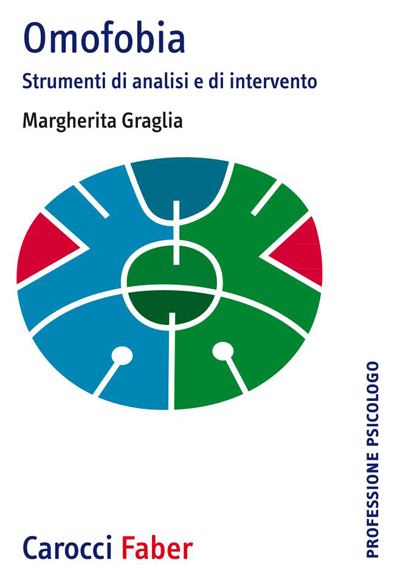
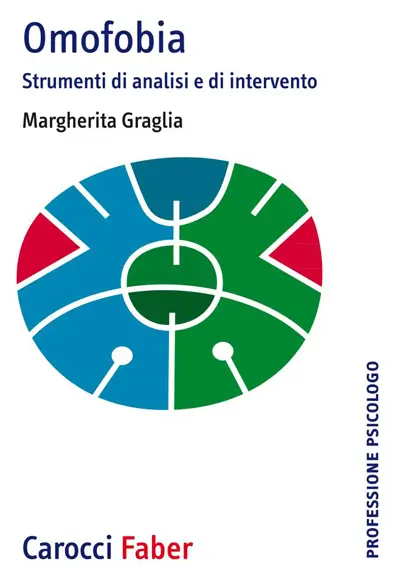
reduce image size

diff --git a/src/components/featured-books.js b/src/components/featured-books.js
@@ -5,7 +5,7 @@ const HeroBanner = () => {
     {
       text: "Libro 1",
       url: "/libri/book-one",
-      image: "/th_differenze.webp",
+      image: "/th_differenze_sm.webp",
       description: "Libro 1",
       amazonLink:
         "https://www.amazon.it/differenze-sesso-genere-orientamento/dp/8874668082/ref=sr_1_1?__mk_it_IT=ÅMÅŽÕÑ&crid=2TOEP8XY3KJV7&keywords=graglia+margherita&qid=1673814942&sprefix=graglia+margherita%2Caps%2C93&sr=8-1",
@@ -13,7 +13,7 @@ const HeroBanner = () => {
     {
       text: "Libro 2",
       url: "/libri/book-two",
-      image: "/th_omofobia.webp",
+      image: "/th_omofobia_sm.webp",
       description: "Libro 2",
       amazonLink:
         "https://www.amazon.it/Omofobia-Strumenti-analisi-intervento-Margherita/dp/8874666454/ref=sr_1_2?__mk_it_IT=ÅMÅŽÕÑ&crid=2TOEP8XY3KJV7&keywords=graglia+margherita&qid=1673814942&sprefix=graglia+margherita%2Caps%2C93&sr=8-2",
@@ -21,7 +21,7 @@ const HeroBanner = () => {
     {
       text: "Libro 3",
       url: "/libri/book-three",
-      image: "/th_psicoterapia.webp",
+      image: "/th_psicoterapia_sm.webp",
       description: "Libro 3",
       amazonLink:
         "https://www.amazon.it/Psicoterapia-omosessualità-Margherita-Graglia/dp/8874665695/ref=sr_1_3?__mk_it_IT=ÅMÅŽÕÑ&crid=2TOEP8XY3KJV7&keywords=graglia+margherita&qid=1673814942&sprefix=graglia+margherita%2Caps%2C93&sr=8-3",
@@ -48,13 +48,14 @@ const HeroBanner = () => {
         {bookPageLinks.map(book => (
           <div style={{ display: "flex", flexDirection: "column" }}>
             <a href={book.url} target="_blank" rel="noreferrer">
-              <img
+              <img alt=''
+               width={'100%'} height={'300px'} 
                 src={book.image}
                 style={{ height: "300px", border: "1px solid black" }}
               />
             </a>
             <a href={book.amazonLink} target="_blank" rel="noreferrer">
-              <img src="/amazon-button.png" style={{ height: "50px" }} />
+              <img alt='' width={'100%'} height={'50px'} src="/amazon-button.webp" style={{ height: "50px" }} />
             </a>
           </div>
         ))}

diff --git a/src/pages/libri/book-two.js b/src/pages/libri/book-two.js
@@ -14,7 +14,7 @@ const BookTwo = () => (
           backgroundColor: "#eff1e9",
         }}
       >
-        <img
+        <img alt=''
           src="/th_omofobia.webp"
           style={{ width: "500px" }}
         />
@@ -93,7 +93,7 @@ const BookTwo = () => (
               }
               target="_blank" rel="noreferrer"
             >
-              <img src="/amazon-button.png" style={{ height: "50px" }} />
+              <img alt='' width={'100%'} height={'50px'} src="/amazon-button.webp" style={{ height: "50px" }} />
             </a>
             <a
               href={
@@ -101,7 +101,7 @@ const BookTwo = () => (
               }
               target="_blank" rel="noreferrer"
             >
-              <img
+              <img alt=''
                 src="/fibs-logo.png"
                 style={{ height: "50px", marginLeft: "30px" }}
               />
@@ -110,7 +110,7 @@ const BookTwo = () => (
               href={"https://www.carocci.it/prodotto/omofobia"}
               target="_blank" rel="noreferrer"
             >
-              <img
+              <img alt=''
                 src="/carocci-logo.png"
                 style={{ height: "50px", marginLeft: "30px" }}
               />

diff --git a/src/pages/libri/book-three.js b/src/pages/libri/book-three.js
@@ -14,7 +14,7 @@ const BookThree = () => (
           backgroundColor: "#eff1e9",
         }}
       >
-        <img
+        <img alt=''
           src="/th_psicoterapia.webp"
           style={{ width: "500px" }}
         />
@@ -91,7 +91,7 @@ const BookThree = () => (
               }
               target="_blank" rel="noreferrer"
             >
-              <img src="/amazon-button.png" style={{ height: "50px" }} />
+              <img alt='' width={'100%'} height={'50px'} src="/amazon-button.webp" style={{ height: "50px" }} />
             </a>
             <a
               href={
@@ -99,7 +99,7 @@ const BookThree = () => (
               }
               target="_blank" rel="noreferrer"
             >
-              <img
+              <img alt=''
                 src="/fibs-logo.png"
                 style={{ height: "50px", marginLeft: "30px" }}
               />
@@ -110,7 +110,7 @@ const BookThree = () => (
               }
               target="_blank" rel="noreferrer"
             >
-              <img
+              <img alt=''
                 src="/carocci-logo.png"
                 style={{ height: "50px", marginLeft: "30px" }}
               />

diff --git a/src/pages/libri/book-one.js b/src/pages/libri/book-one.js
@@ -14,7 +14,7 @@ const BookOne = () => (
           backgroundColor: "#eff1e9",
         }}
       >
-        <img
+        <img alt=''
           src="/th_differenze.webp"
           style={{ width: "500px" }}
         />
@@ -88,7 +88,7 @@ const BookOne = () => (
               }
               target="_blank" rel="noreferrer"
             >
-              <img src="/amazon-button.png" style={{ height: "50px" }} />
+              <img alt='' width={'100%'} height={'50px'} src="/amazon-button.webp" style={{ height: "50px" }} />
             </a>
             <a
               href={
@@ -96,7 +96,7 @@ const BookOne = () => (
               }
               target="_blank" rel="noreferrer"
             >
-              <img
+              <img alt=''
                 src="/fibs-logo.png"
                 style={{ height: "50px", marginLeft: "30px" }}
               />
@@ -107,7 +107,7 @@ const BookOne = () => (
               }
               target="_blank" rel="noreferrer"
             >
-              <img
+              <img alt=''
                 src="/carocci-logo.png"
                 style={{ height: "50px", marginLeft: "30px" }}
               />

diff --git a/src/pages/psicoterapia.js b/src/pages/psicoterapia.js
@@ -2,7 +2,6 @@ import * as React from "react"
 import * as style from "../components/index.module.css"
 
 import Layout from "../components/layout"
-import { Link } from "gatsby"
 import Seo from "../components/seo"
 import { useState } from "react"
 
@@ -11,8 +10,6 @@ const Psicoterapia = () => {
   const [readMore2, setReadMore2] = useState(false)
   const [readMore3, setReadMore3] = useState(false)
   const [readMore4, setReadMore4] = useState(false)
-  const [readMore5, setReadMore5] = useState(false)
-  const [readMore6, setReadMore6] = useState(false)
   return (
     <Layout>
       <div
@@ -234,7 +231,7 @@ const Psicoterapia = () => {
           </p>
           {readMore4 && (
             <>
-              <img src="/img_1.webp" className={style.rainbowImage} />
+              <img alt='' src="/img_1.webp" className={style.rainbowImage} />
               <p style={{ textAlign: "justify" }}>
                 Il sesso, il genere e l&rsquo;orientamento sessuale sono
                 dimensioni nucleari dell&rsquo;identit&agrave; umana e possono

diff --git a/src/components/book-list-item.js b/src/components/book-list-item.js
@@ -10,7 +10,7 @@ const BookListItem = ({ year, text, image, aboutLink }) => {
     <>
       <span className={styles.bookListItemYear}>{year}</span>
       <div className={styles.bookListItemContainer}>
-        <img src={image} className={styles.bookListItemImage} />
+        <img alt='' src={image} className={styles.bookListItemImage} />
         <div style={{ display: "flex", flexDirection: "column" }}>
           <span className={styles.bookListItemText}>{text}</span>
           <a

diff --git a/src/pages/formazione.js b/src/pages/formazione.js
@@ -4,12 +4,8 @@ import * as style from "../components/index.module.css"
 import Layout from "../components/layout"
 import { Link } from "gatsby"
 import Seo from "../components/seo"
-import { useState } from "react"
 
 const Supervisione = () => {
-  const [readMore1, setReadMore1] = useState(false)
-  const [readMore2, setReadMore2] = useState(false)
-
   return (
     <Layout>
       <div

diff --git a/src/pages/news.js b/src/pages/news.js
@@ -122,7 +122,7 @@ const News = () => {
               className={styles.newsContainer}
             >
               {newItem.images?.map(url => (
-                <img
+                <img alt=''
                   className={styles.newsImage}
                   src={url}
                   onClick={e => toggleFullScreen(e)}

diff --git a/src/pages/index.js b/src/pages/index.js
@@ -1,8 +1,6 @@
 import * as React from "react"
 import * as styles from "../components/index.module.css"
 
-import { GatsbyImage, getImage } from "gatsby-plugin-image"
-
 import FeaturedBooks from "../components/featured-books"
 import HeroBanner from "../components/hero-banner"
 import Layout from "../components/layout"

diff --git a/README.md b/README.md
@@ -1,7 +1,7 @@
 <!-- AUTO-GENERATED-CONTENT:START (STARTER) -->
 <p align="center">
   <a href="https://www.gatsbyjs.com">
-    <img alt="Gatsby" src="https://www.gatsbyjs.com/Gatsby-Monogram.svg" width="60" />
+    <img alt='' alt="Gatsby" src="https://www.gatsbyjs.com/Gatsby-Monogram.svg" width="60" />
   </a>
 </p>
 <h1 align="center">
@@ -44,7 +44,7 @@ _Have another more specific idea? You may want to check out our vibrant collecti
 
 Deploy this starter with one click on [Gatsby Cloud](https://www.gatsbyjs.com/cloud/):
 
-[<img src="https://www.gatsbyjs.com/deploynow.svg" alt="Deploy to Gatsby Cloud">](https://www.gatsbyjs.com/dashboard/deploynow?url=https://github.com/gatsbyjs/gatsby-starter-default)
+[<img alt='' src="https://www.gatsbyjs.com/deploynow.svg" alt="Deploy to Gatsby Cloud">](https://www.gatsbyjs.com/dashboard/deploynow?url=https://github.com/gatsbyjs/gatsby-starter-default)
 
 ## 🧐 What's inside?
 
